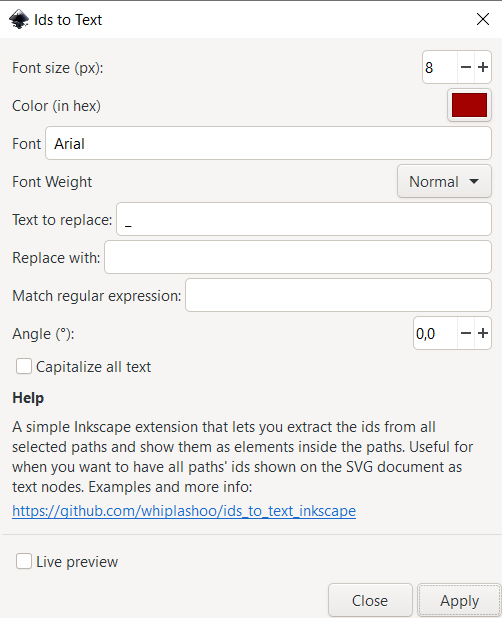
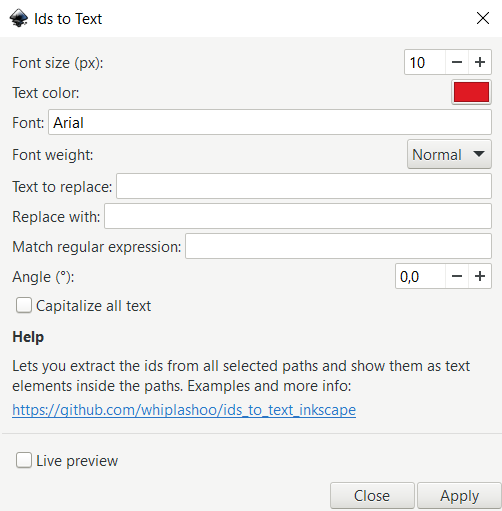
cleanup labels, update example image

diff --git a/ids_to_text.py b/ids_to_text.py
@@ -2,9 +2,6 @@
 import re
 import inkex
 
-#  change deprecated APIs for 1.1
-#  add option to make other attributes <text> nodes, like fill or stroke
-# option to scale text according to path area.
 
 class IdsToText(inkex.Effect):
     def __init__(self):

diff --git a/README.md b/README.md
@@ -6,6 +6,8 @@ A simple Inkscape extension that lets you **extract the ids from all selected pa
 
 Useful for when you want to have all paths' ids shown on the SVG document as `<text>` nodes.
 
+Available under the Extensions > Text menu.
+
 **Example:**
 
 Get the ids (names) of all the countries on the Africa map and show them on the map as labels.
@@ -33,6 +35,6 @@ There are options available for styling and formatting the text:
 
 ![UI](https://github.com/whiplashoo/ids_to_text_inkscape/blob/master/example3.PNG)
 
-**Note: only works on `<path>` elements. If you have a `<circle>`, `<rectangle>`, `<text>`, etc., first use Object -> Object to Path to convert it.**
+**Note: only works on `<path>` elements. If you have a `<circle>`, `<rectangle>`, `<text>`, etc., first use Object > Object to Path to convert it.**
 
 Also published on the [Inkscape extensions repository](https://inkscape.org/~whidev/%E2%98%85ids-to-text-elements "Inkscape extensions repository").
